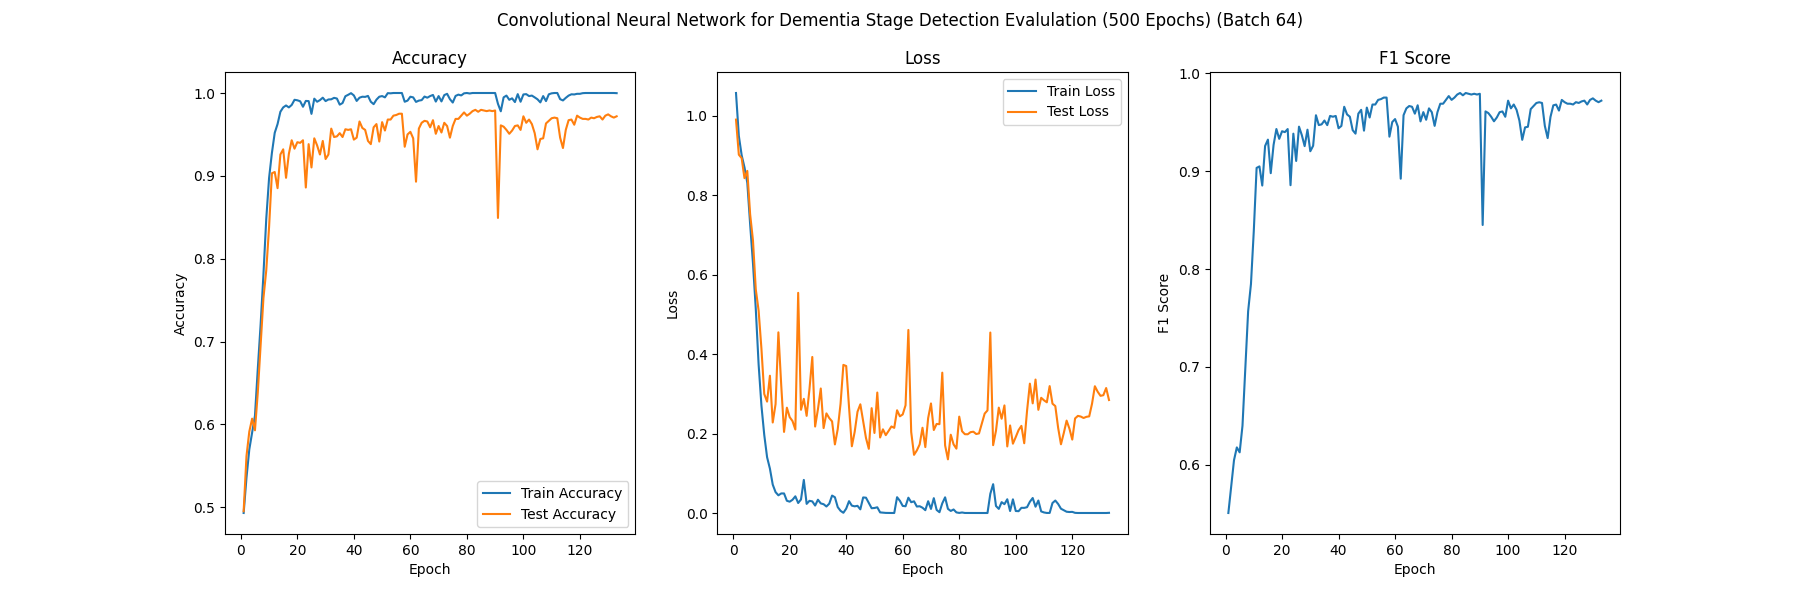
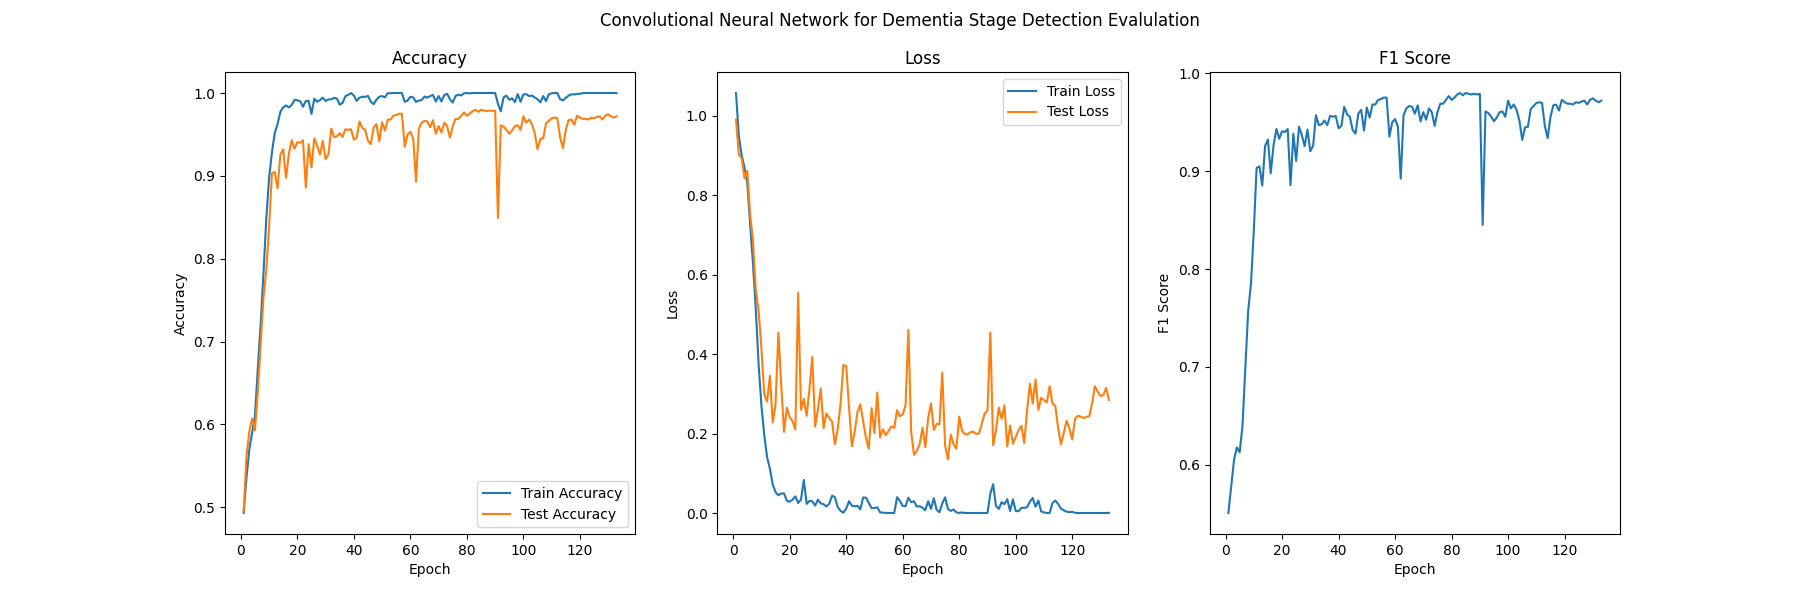
del extra fig

Changed region(s): [[0.28, 0.0, 0.7156, 0.06]]

diff --git a/src/CNN_dementia_model.py b/src/CNN_dementia_model.py
@@ -21,13 +21,13 @@ torch.manual_seed(random_seed)
 np.random.seed(random_seed)
 random.seed(random_seed)
 
-#getting device 
+#getting device, setting to gpu if available
 device = torch.device("cuda" if torch.cuda.is_available() else "cpu")
 
-#data path
+#data path to directory with sub directories that contain images of subdirectory class
 data = r'C:\Users\1234z\Desktop\Jakes Stuff\Dataset'
 
-#fuction that takes list of different transfomration to apply to the list of images 
+#fuction that takes list of different transfomration to apply to the list of images, converting to tensor and grayscale
 tensor_gray_transformation = tv.transforms.Compose([tv.transforms.ToTensor(), transforms.Grayscale(num_output_channels=1)])
 
 #feed directory of data with each different class in a different directroy in the parent directory 
@@ -35,6 +35,10 @@ tensor_gray_transformation = tv.transforms.Compose([tv.transforms.ToTensor(), tr
 norm_dataset = tv.datasets.ImageFolder(data, transform=tensor_gray_transformation)
 
 def grayscaleimage_dataset_normalization(dataset_tensor):
+    '''
+    Takes a pytorch dataset calculates the mean and std 
+    of each channel for the sample as a whole
+    '''
     channel_sum = torch.zeros(1)
     elements = torch.numel(dataset_tensor[0][0])
     for image, label in dataset_tensor:
@@ -48,8 +52,10 @@ def grayscaleimage_dataset_normalization(dataset_tensor):
     
     return mean, std
 
+#getting the mean and std to normalize the dataset 
 mean, std = grayscaleimage_dataset_normalization(norm_dataset)
 
+#composing final preprocessing transfomrations and making the proprocessed dataset
 tensor_gray_norm_transformations = tv.transforms.Compose([tv.transforms.ToTensor(), transforms.Grayscale(num_output_channels=1), tv.transforms.Normalize(mean, std)])
 dataset = tv.datasets.ImageFolder(data, transform=tensor_gray_norm_transformations)
 
@@ -69,6 +75,8 @@ batch_size = 64
 train_loader = torch.utils.data.DataLoader(training_data, batch_size, shuffle=True, pin_memory=True)
 test_loader = torch.utils.data.DataLoader(validation_data, batch_size, pin_memory=True)
 
+#init the early stopping class that will be used to stop training after a specified number of epcohs
+#without inprovment to the f1 score
 class Early_Stopping_F1():
     def __init__(self, patience):
         self._patience = patience
@@ -92,6 +100,7 @@ class Early_Stopping_F1():
     def get_state_dict(self):
         return self.min_state_dict  
 
+#setting up the model 
 class CNN(nn.Module):
     def __init__(self, num_classes):
         super(CNN, self).__init__()
@@ -153,7 +162,7 @@ class CNN(nn.Module):
         return self._forward(x)
 
 #init model 
-model = CNN(4)
+model = CNN(len(dataset.classes))
 model.to(device)
 
 #loss function
@@ -205,17 +214,24 @@ while True:
         predicted_arg = torch.argmax(predicted_labels, dim=1)
         correct += (predicted_arg == labels).sum().item()
 
+    #calculating the loss for this epoch
     train_loss = running_loss / len(train_loader.dataset)
+    #getting the accuracy for this epoch 
     training_accuracy = correct / total
 
+    #printing status of loss and accuracy to consle
     epoch += 1
     print(f"Epoch {epoch}:")
     print(f'Training: Loss = {train_loss}, Accuracy = {training_accuracy}')
 
+    #evaluating the model 
     model.eval()
+    #init all varibles to track accuracy and loss 
     test_loss_cul = 0
     correct = 0
     total = 0 
+
+    #these will be used to calculate the f1 score for this current epoch on the training data
     cul_predictions = torch.tensor([]).to(device)
     cul_labels = torch.tensor([]).to(device)
 
@@ -254,29 +270,33 @@ while True:
         #beta > 1 shifts the f1 score to be more in favor or recall while beta < 1 makes it favored towards precision 
         f1 = skm.fbeta_score(cul_predictions.cpu().numpy(), cul_labels.cpu().numpy(), average="weighted", beta=2)
     
+    #printing status to consel
     print(f"Test: Loss = {test_loss}, Accuracy = {test_accuracy}, F-1 Score = {f1}")
     print()
 
+    #adding loss, accuracy, and f1 score to the lists that will be used to produce a plot of the progress of the model 
     training_loss_lst.append(train_loss)
     training_accuracy_lst.append(training_accuracy)
     test_loss_lst.append(test_loss)
     test_acc_lst.append(test_accuracy)
     f1_score_lst.append(float(f1))
 
+    #earlier stopper condition check to see if the pacients of the model has run out 
+    #if it has revert model to highest f1 
     if early_stopper.stopper(model, f1):
         state_dict = early_stopper.get_state_dict()
         model.load_state_dict(state_dict)
         break
 
-# torch.save(model, r'C:\Users\1234z\Desktop\Jakes Stuff\Data\model.pth')
+torch.save(model, r'C:\Users\1234z\Desktop\Jakes Stuff\Data\model.pth')
 
-# with open(r'C:\Users\1234z\Desktop\Jakes Stuff\Data\training_loss.txt', 'w+') as file:
-#     file.write(str(training_loss_lst))
-# with open(r'C:\Users\1234z\Desktop\Jakes Stuff\Data\training_accuracy.txt', 'w+') as file:
-#     file.write(str(training_accuracy_lst))
-# with open(r'C:\Users\1234z\Desktop\Jakes Stuff\Data\test_loss.txt', 'w+') as file:
-#     file.write(str(test_loss_lst))
-# with open(r'C:\Users\1234z\Desktop\Jakes Stuff\Data\test_accuracy.txt', 'w+') as file:
-#     file.write(str(test_acc_lst))
-# with open(r'C:\Users\1234z\Desktop\Jakes Stuff\Data\f1_score.txt', 'w+') as file:
-#     file.write(str(f1_score_lst))
+with open(r'C:\Users\1234z\Desktop\Jakes Stuff\Data\training_loss.txt', 'w+') as file:
+    file.write(str(training_loss_lst))
+with open(r'C:\Users\1234z\Desktop\Jakes Stuff\Data\training_accuracy.txt', 'w+') as file:
+    file.write(str(training_accuracy_lst))
+with open(r'C:\Users\1234z\Desktop\Jakes Stuff\Data\test_loss.txt', 'w+') as file:
+    file.write(str(test_loss_lst))
+with open(r'C:\Users\1234z\Desktop\Jakes Stuff\Data\test_accuracy.txt', 'w+') as file:
+    file.write(str(test_acc_lst))
+with open(r'C:\Users\1234z\Desktop\Jakes Stuff\Data\f1_score.txt', 'w+') as file:
+    file.write(str(f1_score_lst))

diff --git a/functions.py b/functions.py
@@ -3,14 +3,29 @@ import torchvision as tv
 
 def rgbimage_dataset_normalization(dataset_tensor):
     channel_sum = torch.zeros(3)
+    elements = torch.numel(dataset_tensor[0][0])
     for image, label in dataset_tensor:
         channel_sum += torch.sum(image, dim=(1,2))
-    mean = channel_sum / len(dataset_tensor)
+    mean = channel_sum / (len(dataset_tensor) * elements)
 
     std_sum = torch.zeros(3)
     for image, label in dataset_tensor:
-        std_sum += (torch.sum(image, dim=(1,2)) - mean)**2
-    std = torch.sqrt(torch.div(std_sum, len(dataset_tensor)))
+        std_sum += torch.sum((image - mean)**2, dim=(1, 2))
+    std = torch.sqrt(torch.div(std_sum, (len(dataset_tensor) * elements) - 1))
+    
+    return mean, std
+
+def grayscaleimage_dataset_normalization(dataset_tensor):
+    channel_sum = torch.zeros(1)
+    elements = torch.numel(dataset_tensor[0][0])
+    for image, label in dataset_tensor:
+        channel_sum += torch.sum(image, dim=(1,2))
+    mean = channel_sum / (len(dataset_tensor) * elements)
+
+    std_sum = torch.zeros(1)
+    for image, label in dataset_tensor:
+        std_sum += torch.sum((image - mean)**2, dim=(1, 2))
+    std = torch.sqrt(torch.div(std_sum, (len(dataset_tensor) * elements) - 1))
     
     return mean, std
 

diff --git a/src/eval_fig.py b/src/eval_fig.py
@@ -55,7 +55,7 @@ ax3.set_ylabel('F1 Score')
 ax3.set_xlabel("Epoch")
 ax3.set_title('F1 Score')
 
-fig.suptitle('Convolutional Neural Network for Dementia Stage Detection Evalulation (500 Epochs) (Batch 64)')
+fig.suptitle('Convolutional Neural Network for Dementia Stage Detection Evalulation')
 
 plt.subplots_adjust(wspace=0.2)
 fig.savefig(r'C:\Users\1234z\Desktop\Jakes Stuff\Data\CNN_Eval_Plot')
